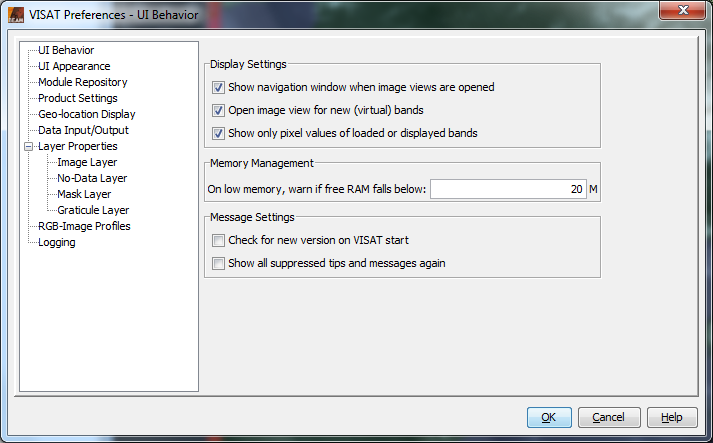
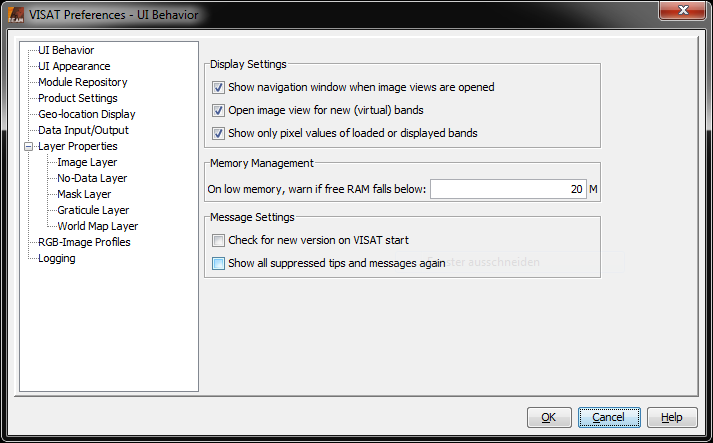
mentioned world map layer button in help

Changed region(s): [[0.0, 0.0, 1.0, 1.0], [0.2777, 0.5869, 0.3394, 0.6163]]

diff --git a/beam-help/src/main/resources/doc/help/visat/PreferencesDialog.html b/beam-help/src/main/resources/doc/help/visat/PreferencesDialog.html
@@ -49,7 +49,7 @@
     </li>
     <li><b>Open image view for new (virtual) bands</b><br>
         Currently, this option only affects the <a href="BandMaths.html">band
-        maths</a> tool. If this option is selected a new image view is automatically
+            maths</a> tool. If this option is selected a new image view is automatically
         created and opened for any new bands created in the band maths tool.
     </li>
     <li><b>Show only pixel values of displayed bands</b><br>
@@ -66,7 +66,7 @@
         Here you can enter a value in megabytes, which uses VISAT to decide to pop-up
         a low memory message box. Set this value to zero, if you don't want to get
         any warnings.
-    </li>    
+    </li>
 
     <li><b>Check for new version on VISAT start</b><br>
         Checks on application start, if a new version of VISAT is available.
@@ -180,7 +180,7 @@
     </li>
 </ul>
 
-<h4><a name="layerproperties">Layer Properties -&gt;</a> </h4>
+<h4><a name="layerproperties">Layer Properties -&gt;</a></h4>
 <ul>
     <li><b>Use anti-aliasing for rendering text and vector graphics</b><br>
         If this option is selected, VISAT uses anti-aliasing to smooth vector graphics
@@ -226,6 +226,18 @@
     </li>
     <li><b>Transparency:</b><br>
         Sets the transparency of the <a href="NoDataOverlay.html">no-data overlay</a>.
+    </li>
+</ul>
+
+<h4><a name="maskOverlay">Mask Overlay</a></h4>
+
+<p>This preferences page provides options to customize VISAT's mask overlay.</p>
+<ul>
+    <li><b>Mask colour:</b><br>
+        Sets the default colour for newly created masks.
+    </li>
+    <li><b>Mask transparency:</b><br>
+        Sets the default transparency for newly created masks.
     </li>
 </ul>
 
@@ -283,16 +295,12 @@
     </li>
 </ul>
 
+<h4><a name="worldmapoverlay">World Map Layer</a></h4>
 
-<h4><a name="maskOverlay">Mask Overlay</a></h4>
-
-<p>This preferences page provides options to customize VISAT's mask overlay.</p>
+<p>This preferences page provides options to customize VISAT's world map overlay.</p>
 <ul>
-    <li><b>Mask colour:</b><br>
-        Sets the default colour for newly created masks.
-    </li>
-    <li><b>Mask transparency:</b><br>
-        Sets the default transparency for newly created masks.
+    <li><b>World Map Layer:</b><br>
+        Sets the world map to ESA GlobCover (default) or to NASA Blue Marble.
     </li>
 </ul>
 

diff --git a/beam-help/src/main/resources/doc/help/visat/Toolbars.html b/beam-help/src/main/resources/doc/help/visat/Toolbars.html
@@ -130,6 +130,8 @@
         <img src="images/icons/GraticuleOverlay24.gif" alt="Show Graticule Overlay" border="0"></a>
     <a href="#showpins">
         <img src="images/icons/PinOverlay24.gif" border="0"></a>
+    <a href="#showworldmapoverlay">
+        <img src="images/icons/WorldMapOverlay24.png" border="0"></a>
 </h4>
 
 <h5><a name="shownodata"></a><img src="images/icons/NoDataOverlay24.gif"> &nbsp;&nbsp;
@@ -168,6 +170,13 @@
 
 <p>
     Toggles whether or not to display the GCPs defined for the current product in the current image view.
+</p>
+<h5><a name="showworldmapoverlay"></a><img src="images/icons/WorldMapOverlay24.png"> &nbsp;&nbsp;
+    Show World Map Overlay</h5>
+
+<p>
+    Toggles whether or not to display a world map layer. Which kind of world map layer is displayed can be
+    <a href="PreferencesDialog.html">preferences dialog</a>.
 </p>
 
 <a name="analysis"/><h4>Analysis Tool Bar &nbsp;
